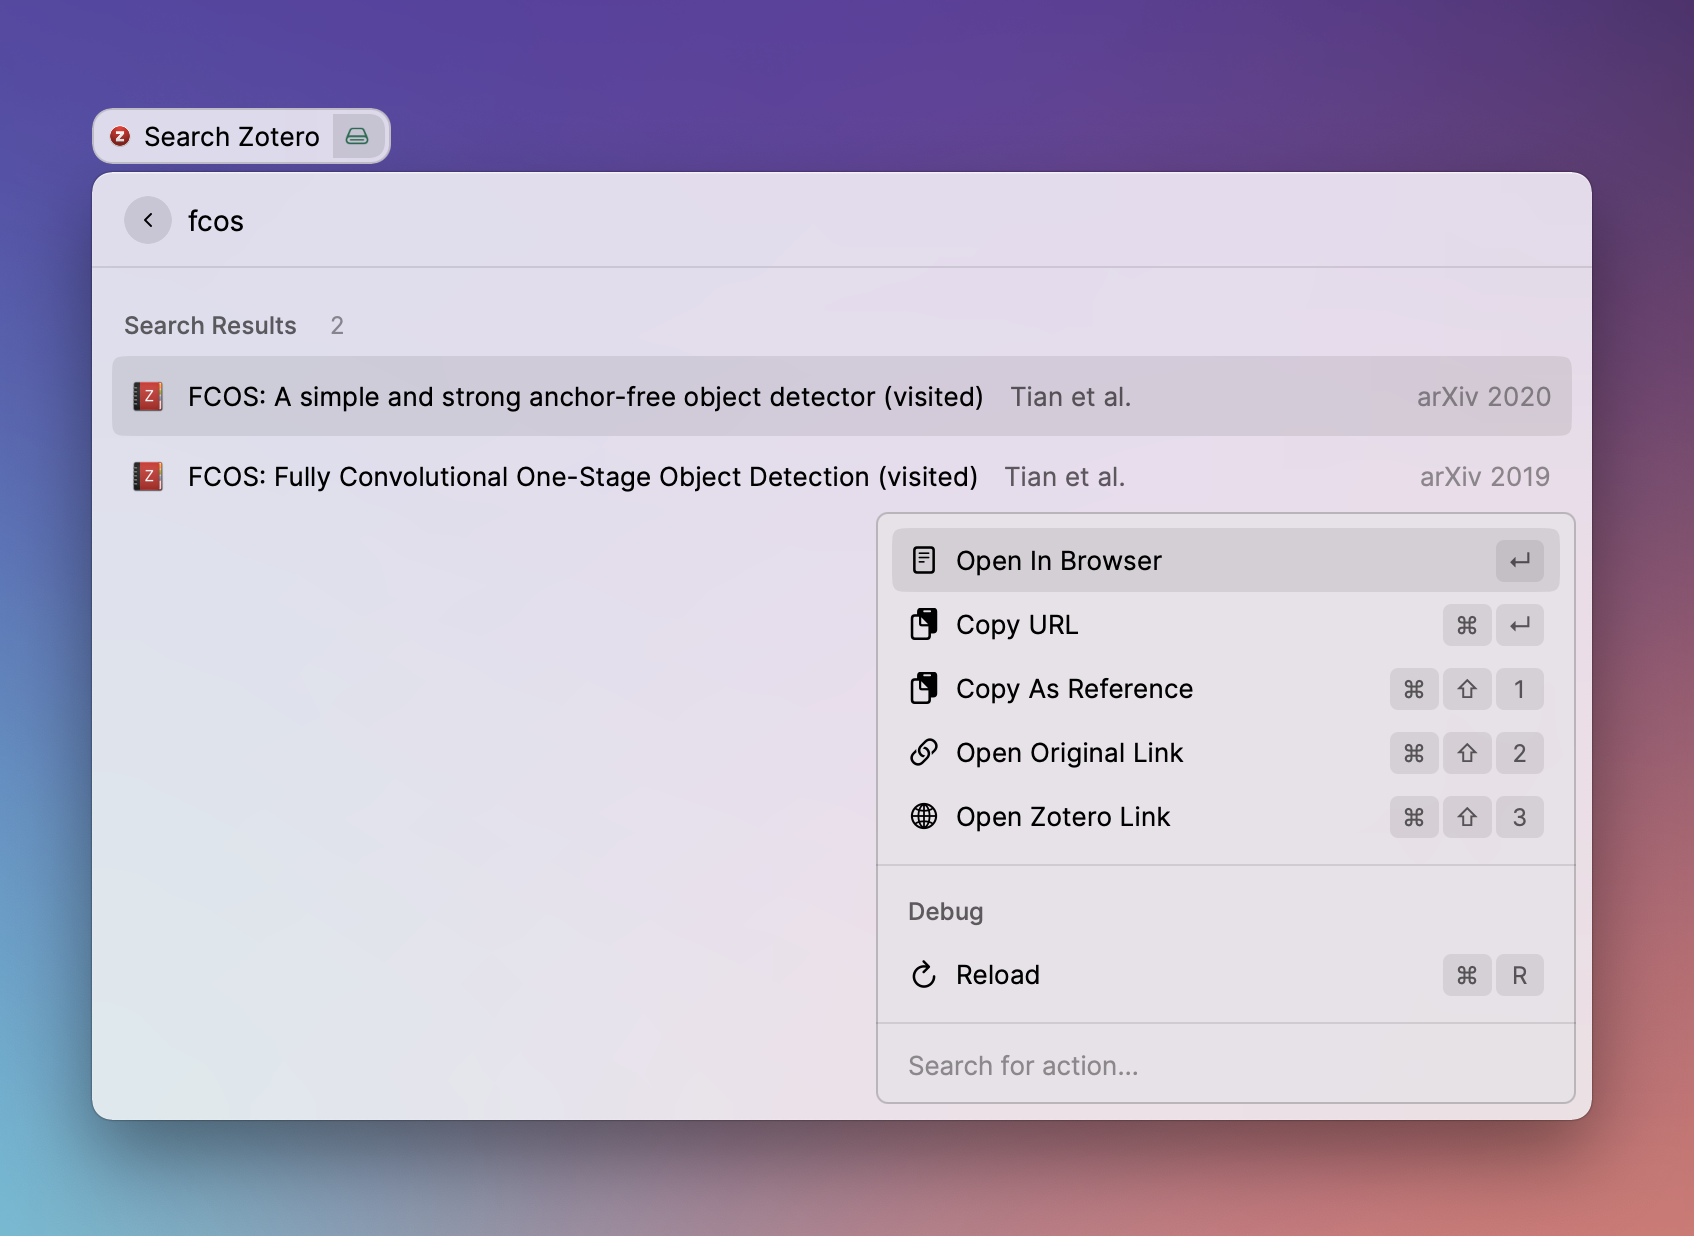
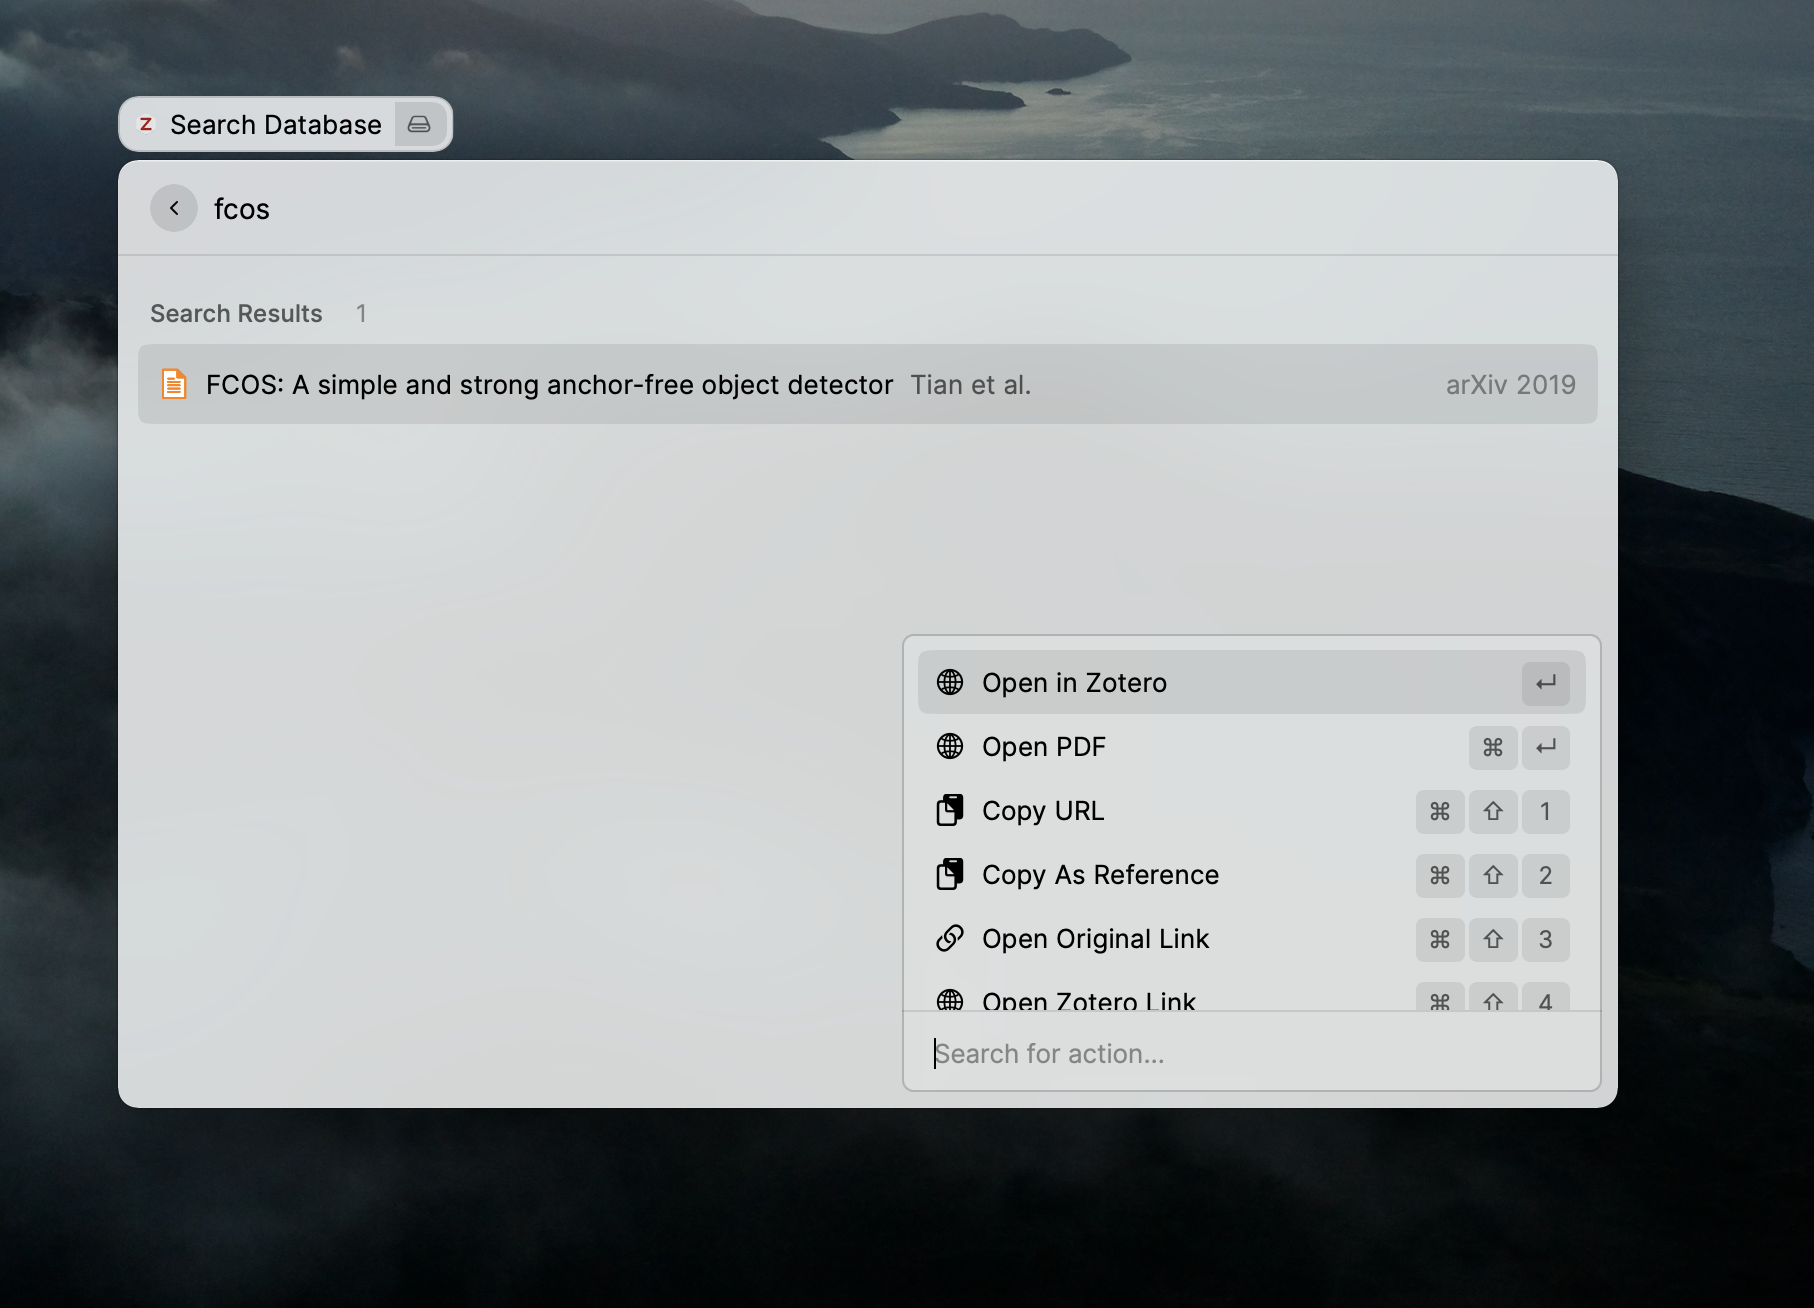
update zotero extension to open pdf directly (#956)
* update zotero extension to open pdf directly

* fix vars to const

* update README

* update menu image in README

* update icon of open pdf action

* add a note in code comment about multiple pdf file case

diff --git a/extensions/zotero/src/common/View.tsx b/extensions/zotero/src/common/View.tsx
@@ -1,4 +1,4 @@
-import { ActionPanel, CopyToClipboardAction, List, KeyboardShortcut, Icon, OpenInBrowserAction } from "@raycast/api";
+import { ActionPanel, List, Icon, Action, Keyboard } from "@raycast/api";
 import type { QueryResultItem } from "./zoteroApi";
 import { useVisitedUrls } from "./useVisitedUrls";
 
@@ -10,9 +10,10 @@ type Props = {
   throttle?: boolean;
 };
 
-const copyRefCommandShortcut: KeyboardShortcut = { modifiers: ["cmd", "shift"], key: "1" };
-const openExtLinkCommandShortcut: KeyboardShortcut = { modifiers: ["cmd", "shift"], key: "2" };
-const openZoteroLinkCommandShortcut: KeyboardShortcut = { modifiers: ["cmd", "shift"], key: "3" };
+const copyToClipboardShortcut: Keyboard.Shortcut = { modifiers: ["cmd", "shift"], key: "1" };
+const copyRefCommandShortcut: Keyboard.Shortcut = { modifiers: ["cmd", "shift"], key: "2" };
+const openExtLinkCommandShortcut: Keyboard.Shortcut = { modifiers: ["cmd", "shift"], key: "3" };
+const openZoteroLinkCommandShortcut: Keyboard.Shortcut = { modifiers: ["cmd", "shift"], key: "4" };
 
 export const View = ({ sectionNames, queryResults, isLoading, onSearchTextChange, throttle }: Props): JSX.Element => {
   const [urls, onOpen] = useVisitedUrls();
@@ -35,21 +36,24 @@ export const View = ({ sectionNames, queryResults, isLoading, onSearchTextChange
               accessoryTitle={item.accessoryTitle}
               actions={
                 <ActionPanel>
-                  <OpenInBrowserAction title="Open in Zotero" url={item.url} onOpen={onOpen} />
-                  <CopyToClipboardAction title="Copy URL" content={item.link} />
-                  <CopyToClipboardAction
+                  <Action.OpenInBrowser title="Open in Zotero" url={item.url} onOpen={onOpen} />
+                  {item.pdf_url !== `` && (
+                    <Action.OpenInBrowser icon={Icon.Document} title="Open PDF" url={item.pdf_url} onOpen={onOpen} />
+                  )}
+                  <Action.CopyToClipboard title="Copy URL" content={item.link} shortcut={copyToClipboardShortcut} />
+                  <Action.CopyToClipboard
                     title="Copy As Reference"
                     content={item.bib}
                     shortcut={copyRefCommandShortcut}
                   />
-                  <OpenInBrowserAction
+                  <Action.OpenInBrowser
                     icon={Icon.Link}
                     title="Open Original Link"
                     url={item.raw_link}
                     shortcut={openExtLinkCommandShortcut}
                     onOpen={onOpen}
                   />
-                  <OpenInBrowserAction
+                  <Action.OpenInBrowser
                     icon={Icon.Globe}
                     title="Open Zotero Link"
                     url={item.link}

diff --git a/extensions/zotero/src/common/zoteroApi.ts b/extensions/zotero/src/common/zoteroApi.ts
@@ -1,6 +1,6 @@
 import fetch from "node-fetch";
 import { getPreferenceValues } from "@raycast/api";
-
+import { map } from "modern-async";
 import he from "he";
 
 interface Preferences {
@@ -14,6 +14,7 @@ export type QueryResultItem = {
   title: string;
   subtitle: string;
   url: string;
+  pdf_url: string;
   link: string;
   raw_link: string;
   accessoryTitle: string;
@@ -61,8 +62,36 @@ const parseResponse = (item) => {
     url: `zotero://select/items/0_${item.key}`,
     accessoryTitle: `${name} ${!isNaN(date.getFullYear()) ? date.getFullYear() : ""}`,
     icon: `paper.png`,
+    pdf_url: ``,
   };
 };
+
+function combine_results(val, index, arr) {
+  val["pdf_url"] = this[val.id] ? `zotero://open-pdf/library/items/${this[val.id]}` : ``;
+  return val;
+}
+
+async function get_pdf_key(key: string) {
+  const preferences: Preferences = getPreferenceValues();
+  const requestOptions = {
+    method: "GET",
+    headers: {
+      "Content-Type": "application/json",
+      Authorization: `Bearer ${preferences.api_token}`,
+    },
+  };
+  const query = `https://api.zotero.org/users/${preferences.user_id}/items/${key}/children`;
+  const response = await fetch(query, requestOptions);
+  if (response.status !== 200) {
+    const data = (await response.json()) as { message?: unknown } | undefined;
+    throw new Error(`${data?.message || "Not OK"}`);
+  }
+  const data = (await response.json()) as Array<any>;
+  const pdf_data = data.filter((d) => d.data.contentType === "application/pdf");
+  // NOTE: In case multiple pdf files are found, just first one is picked up to open.
+  // Its not clear to me what should be the correct logic to find the primary PDF
+  return pdf_data.length > 0 ? `${pdf_data[0].key}` : ``;
+}
 
 export const searchResources = async (q: string): Promise<QueryResultItem[]> => {
   const preferences: Preferences = getPreferenceValues();
@@ -84,5 +113,13 @@ export const searchResources = async (q: string): Promise<QueryResultItem[]> => 
     throw new Error(`${data?.message || "Not OK"}`);
   }
   const data = (await response.json()) as Array<any>;
-  return data.map(parseResponse);
+  const res = data.map(parseResponse);
+
+  const item_keys = res.map((item) => item.id);
+  const pdf_key_map_list = await map(item_keys, async (v) => {
+    const pdf_key = await get_pdf_key(v);
+    return { key: v, value: pdf_key };
+  });
+  const pdf_key_map = pdf_key_map_list.reduce((obj, item) => ((obj[item.key] = item.value), obj), {});
+  return res.map(combine_results, pdf_key_map);
 };

diff --git a/extensions/zotero/src/common/useVisitedUrls.ts b/extensions/zotero/src/common/useVisitedUrls.ts
@@ -1,10 +1,10 @@
-import { getLocalStorageItem, setLocalStorageItem } from "@raycast/api";
+import { LocalStorage } from "@raycast/api";
 import { useState, useEffect } from "react";
 
 const VISITED_URLS_KEY = "visited_urls_1";
 
 const loadVisitedUrls = async () => {
-  const item = await getLocalStorageItem(VISITED_URLS_KEY);
+  const item = await LocalStorage.getItem(VISITED_URLS_KEY);
   try {
     if (typeof item === "string") {
       const parsed = JSON.parse(item);
@@ -19,7 +19,7 @@ const loadVisitedUrls = async () => {
 };
 
 const saveVisitedUrls = async (visitedUrls: string[]) => {
-  await setLocalStorageItem(VISITED_URLS_KEY, JSON.stringify(visitedUrls));
+  await LocalStorage.setItem(VISITED_URLS_KEY, JSON.stringify(visitedUrls));
 };
 
 export const useVisitedUrls = (): [string[], (url: string) => void] => {

diff --git a/extensions/zotero/src/common/store.ts b/extensions/zotero/src/common/store.ts
@@ -1,5 +1,5 @@
 import { useState } from "react";
-import { showToast, ToastStyle } from "@raycast/api";
+import { showToast, Toast } from "@raycast/api";
 import { QueryResultItem } from "./zoteroApi";
 
 export type Store = {
@@ -27,7 +27,11 @@ export const useStore = (
         setStore((prev) => ({ ...prev, queryResults }));
       } catch (e) {
         console.log("runQuery error", e);
-        showToast(ToastStyle.Failure, "Failed to query", String(e));
+        showToast({
+          style: Toast.Style.Failure,
+          title: "Failed to query",
+          message: String(e),
+        });
       } finally {
         setStore((prev) => ({ ...prev, queryIsLoading: false }));
       }

diff --git a/extensions/zotero/README.md b/extensions/zotero/README.md
@@ -27,7 +27,11 @@ This extension support a few sub commands:
 ![List of Sub Menus](./images/menu.png)
 
 - link to the reference in your zotero app (default)
+- link to the PDF of your reference in zotero app or default PDF Reader
 - copy URL to copy the ORL of the reference
 - copy as reference to copy a text for citing this reference
 - open original link to open URL in default browser
 - open zotero link to open path to reference on online zotero account
+
+Please note that in case a reference has multiple PDF files associated with it, only the first PDF
+file returned by the API will be opened.
